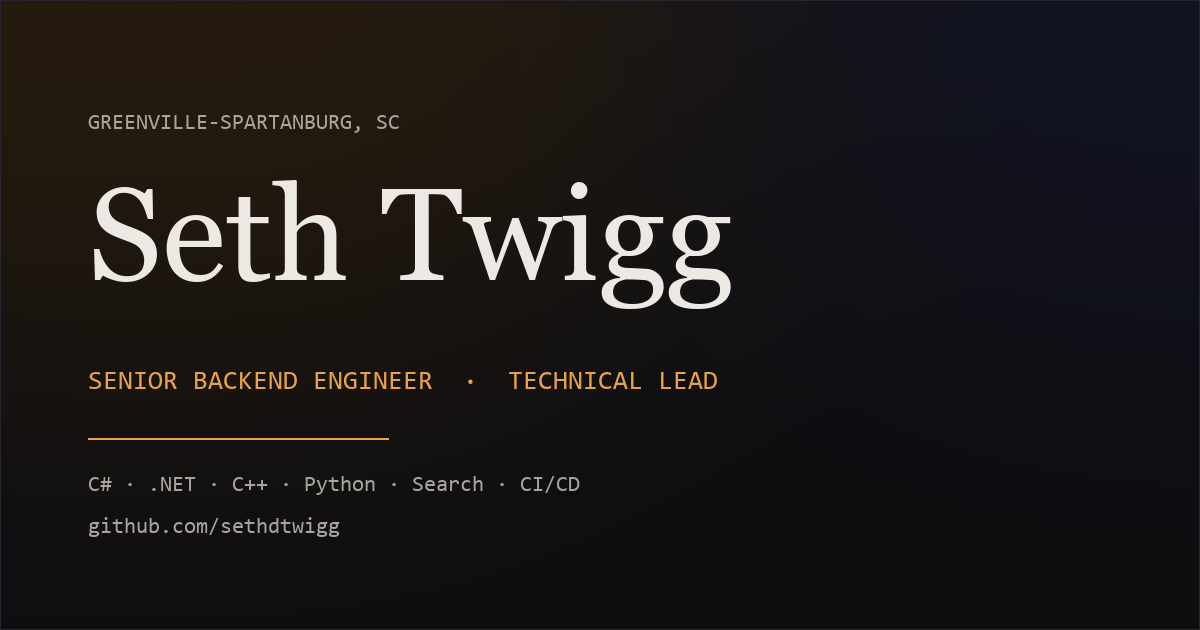
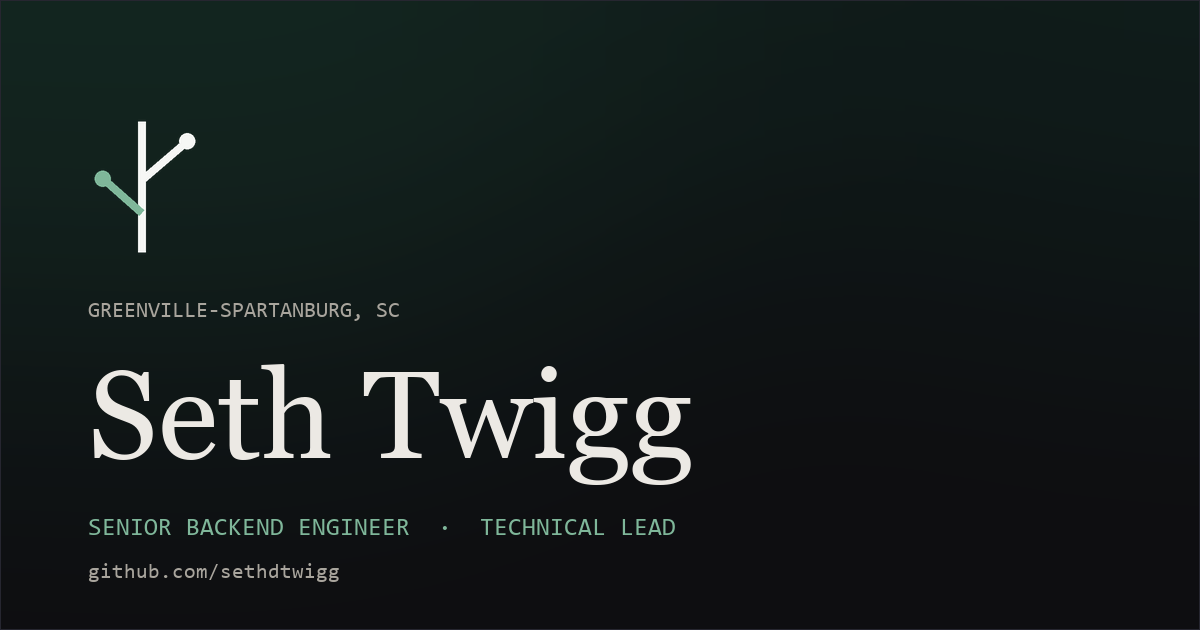
Adopt the twig mark and its green palette
Replace the placeholder "ST" monogram identity with the twig mark, and move
the site accent from amber to the logo's light green.

Only one of the logo's three greens works as a text accent on the dark
canvas: #7FB79A measures 8.39:1 against the background, while #4E8368 is
4.38:1 and #1B3A2F is 1.55:1. The accent is therefore taken from the mark's
reversed variant, which is the one drawn for dark grounds, and the two-tone
variant is not used on the site at all.

The mark is inlined as SVG in the nav and hero rather than referenced as a
file, so its strokes resolve from --fg and --accent instead of carrying baked
hex values, and it costs no extra request. The nav link loses its text
content, so it carries an aria-label to keep an accessible name; the hero
mark is aria-hidden because the h1 already states the name.

All nine source assets are kept unmodified under assets/brand/ with their
C2PA manifests. The served favicon is geometry only, since it is fetched on
every visit.

The lockups are not used on the site: they rely on Newsreader and IBM Plex
Mono, which an SVG loaded via <img> cannot fetch, and their tagline reads
"Software Engineer" where the site says Senior Backend Engineer.

diff --git a/css/style.css b/css/style.css
@@ -58,9 +58,15 @@
     --fg-muted:  #a9a59d;   /* ~7.8:1  */
     --fg-faint:  #86827b;   /* ~5.1:1  */
 
-    --accent:      #e8a24a;
+    /* From the twig mark's reversed variant, which is the one drawn for dark
+       grounds. The logo's other two greens are unusable as text here:
+       #4E8368 measures 4.38:1 against --bg and #1B3A2F 1.55:1. */
+    --accent:      #7FB79A;   /* 8.39:1 on --bg */
     --accent-soft: color-mix(in srgb, var(--accent) 18%, transparent);
     --accent-line: color-mix(in srgb, var(--accent) 40%, transparent);
+
+    /* Light ink of the mark — pairs with --accent for the two-tone twig. */
+    --mark-ink:    #EDF2EA;
 
     --font-display: 'Instrument Serif', 'Iowan Old Style', Georgia, 'Times New Roman', serif;
     --font-body: 'Inter', system-ui, -apple-system, 'Segoe UI', sans-serif;
@@ -119,7 +125,7 @@
     pointer-events: none;
     background:
       radial-gradient(60% 55% at 18% 0%, color-mix(in srgb, var(--accent) 9%, transparent), transparent 70%),
-      radial-gradient(45% 45% at 88% 8%, color-mix(in srgb, #6b7fd7 7%, transparent), transparent 72%);
+      radial-gradient(45% 45% at 88% 8%, color-mix(in srgb, #2f6b57 9%, transparent), transparent 72%);
   }
 
   h1, h2, h3 {
@@ -160,7 +166,7 @@
     z-index: 100;
     padding: 0.7rem 1.2rem;
     background: var(--accent);
-    color: #17130b;
+    color: #0e0e11;
     font-weight: 600;
     text-decoration: none;
     border-radius: 0 0 var(--radius) var(--radius);
@@ -239,12 +245,40 @@
   }
 
   .sitenav__brand {
-    font-family: var(--font-display);
-    font-size: 1.35rem;
-    letter-spacing: 0.02em;
+    display: inline-flex;
+    align-items: center;
     text-decoration: none;
-    color: var(--fg);
+    color: var(--mark-ink);
     flex-shrink: 0;
+    border-radius: 4px;
+    transition: color 0.22s var(--ease);
+  }
+
+  .sitenav__brand:hover { color: var(--fg); }
+
+  .sitenav__brand .mark { height: 26px; }
+
+  /* The twig mark. Light strokes take currentColor so the mark tracks the
+     surrounding text color; the lower branch and its bud carry the accent. */
+  .mark {
+    display: block;
+    width: auto;
+    overflow: visible;
+  }
+
+  .mark__stem,
+  .mark__branch { stroke: currentColor; }
+
+  .mark__bud { fill: currentColor; }
+
+  .mark__branch--accent { stroke: var(--accent); }
+
+  .mark__bud--accent { fill: var(--accent); }
+
+  .hero__mark {
+    height: clamp(52px, 44px + 2.2vw, 72px);
+    color: var(--mark-ink);
+    margin-block-end: clamp(1.75rem, 1.4rem + 1.4vw, 2.5rem);
   }
 
   .sitenav__list {

diff --git a/index.html b/index.html
@@ -71,7 +71,17 @@
 <a class="skip-link" href="#main">Skip to content</a>
 
 <nav class="sitenav" aria-label="Sections">
-  <a class="sitenav__brand" href="#top">ST</a>
+  <!-- Twig mark, inlined so it inherits the site's color tokens. The link has
+       no text content, so it carries an aria-label to keep an accessible name. -->
+  <a class="sitenav__brand" href="#top" aria-label="Seth Twigg — back to top">
+    <svg class="mark" viewBox="0 0 66 92" width="19" height="26" fill="none" aria-hidden="true" focusable="false">
+      <line class="mark__stem" x1="33" y1="6" x2="33" y2="86" stroke-width="5"/>
+      <line class="mark__branch" x1="33" y1="42" x2="61" y2="18" stroke-width="5"/>
+      <line class="mark__branch mark__branch--accent" x1="33" y1="62" x2="9" y2="41" stroke-width="5"/>
+      <circle class="mark__bud" cx="61" cy="18" r="5"/>
+      <circle class="mark__bud mark__bud--accent" cx="9" cy="41" r="5"/>
+    </svg>
+  </a>
   <ul class="sitenav__list">
     <li><a href="#work">Work</a></li>
     <li><a href="#open-source">Open source</a></li>
@@ -83,6 +93,15 @@
 
 <header class="hero" id="top">
   <div class="shell">
+    <!-- Decorative: the h1 below already carries the name, so this is
+         aria-hidden to avoid announcing it twice. -->
+    <svg class="mark hero__mark" viewBox="0 0 66 92" width="47" height="65" fill="none" aria-hidden="true" focusable="false">
+      <line class="mark__stem" x1="33" y1="6" x2="33" y2="86" stroke-width="5"/>
+      <line class="mark__branch" x1="33" y1="42" x2="61" y2="18" stroke-width="5"/>
+      <line class="mark__branch mark__branch--accent" x1="33" y1="62" x2="9" y2="41" stroke-width="5"/>
+      <circle class="mark__bud" cx="61" cy="18" r="5"/>
+      <circle class="mark__bud mark__bud--accent" cx="9" cy="41" r="5"/>
+    </svg>
     <p class="hero__eyebrow">Greenville&ndash;Spartanburg, SC</p>
     <h1 class="hero__name">Seth Twigg</h1>
     <p class="hero__role">Senior Backend Engineer <span aria-hidden="true">&middot;</span> Technical Lead</p>

diff --git a/404.html b/404.html
@@ -16,7 +16,15 @@
 <a class="skip-link" href="#main">Skip to content</a>
 
 <nav class="sitenav" aria-label="Sections">
-  <a class="sitenav__brand" href="/">ST</a>
+  <a class="sitenav__brand" href="/" aria-label="Seth Twigg — homepage">
+    <svg class="mark" viewBox="0 0 66 92" width="19" height="26" fill="none" aria-hidden="true" focusable="false">
+      <line class="mark__stem" x1="33" y1="6" x2="33" y2="86" stroke-width="5"/>
+      <line class="mark__branch" x1="33" y1="42" x2="61" y2="18" stroke-width="5"/>
+      <line class="mark__branch mark__branch--accent" x1="33" y1="62" x2="9" y2="41" stroke-width="5"/>
+      <circle class="mark__bud" cx="61" cy="18" r="5"/>
+      <circle class="mark__bud mark__bud--accent" cx="9" cy="41" r="5"/>
+    </svg>
+  </a>
   <ul class="sitenav__list">
     <li><a href="/#work">Work</a></li>
     <li><a href="/#open-source">Open source</a></li>
